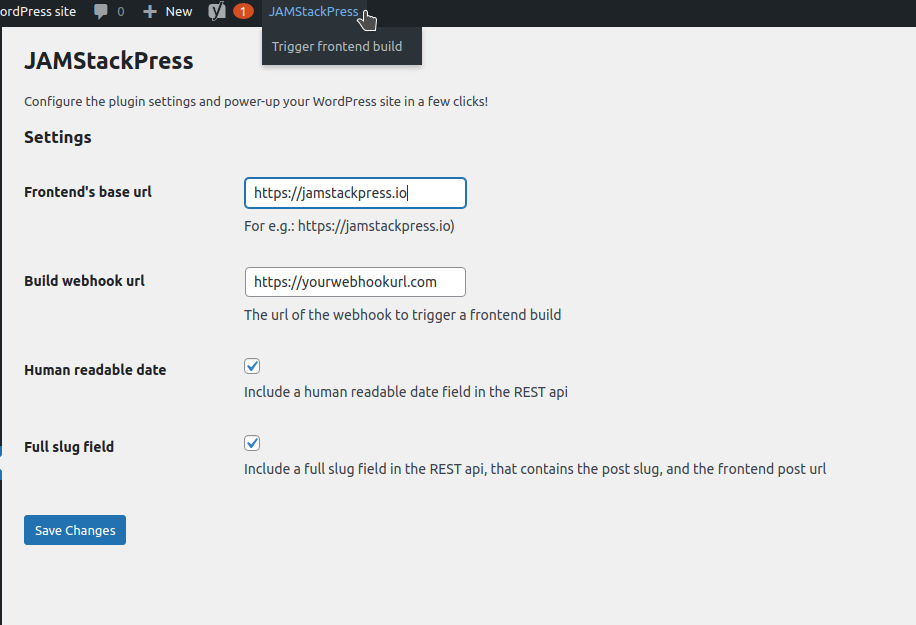
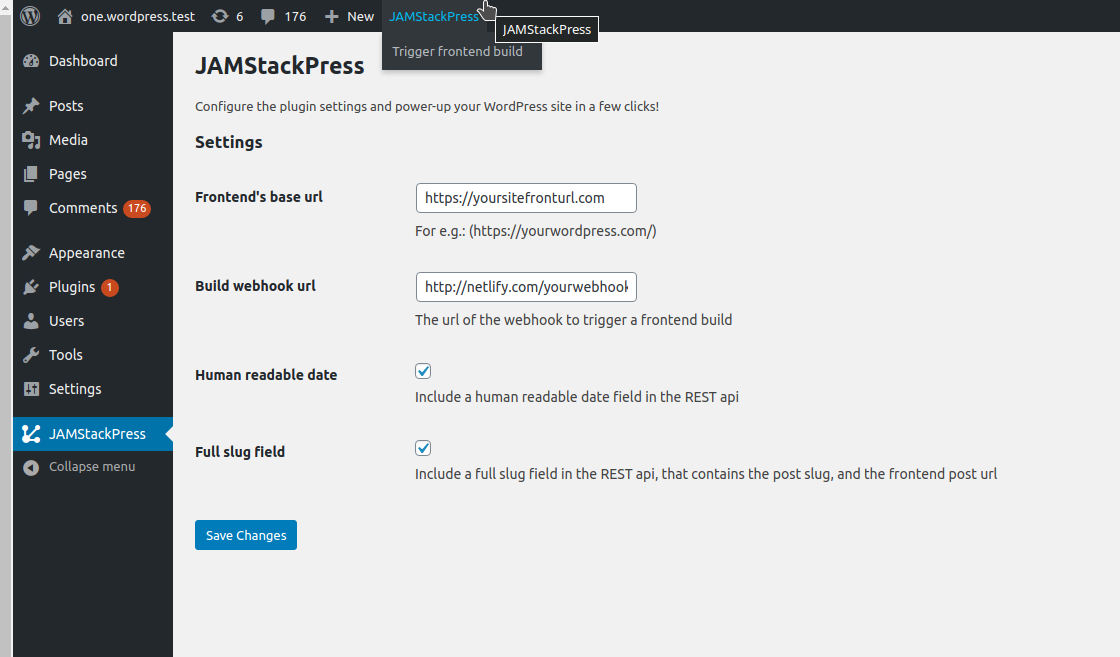
Version 0.0.3 fixes

Changed region(s): [[0.0, 0.0, 1.0, 1.0], [0.2445, 0.6688, 0.917, 0.76]]

diff --git a/jamstackpress.php b/jamstackpress.php
@@ -10,7 +10,7 @@
  * Plugin URI:        https://github.com/jamstackpress/jamstackpress
  * GitHub Plugin URI: https://github.com/jamstackpress/jamstackpress
  * Description:       Power-up your WordPress site and get it ready for JAMStack.
- * Version:           0.0.1
+ * Version:           0.0.3
  * Author:            JAMStackPress
  * Author URI:        
  * License:           GPL version 3 or any later version

diff --git a/src/Plugin/Admin/views/options/frontend-base-url.php b/src/Plugin/Admin/views/options/frontend-base-url.php
@@ -1,2 +1,2 @@
 <input name="jamstackpress_frontend_base_url" type="text" value="<?php echo get_option('jamstackpress_frontend_base_url', '') ?>" />
-<p style="margin-top: 8px"><?php _e('For e.g.: https://jamstackpress.io)', 'jamstackpress'); ?></p>
+<p style="margin-top: 8px"><?php _e('For e.g.: (https://yourwordpress.com/)', 'jamstackpress'); ?></p>
